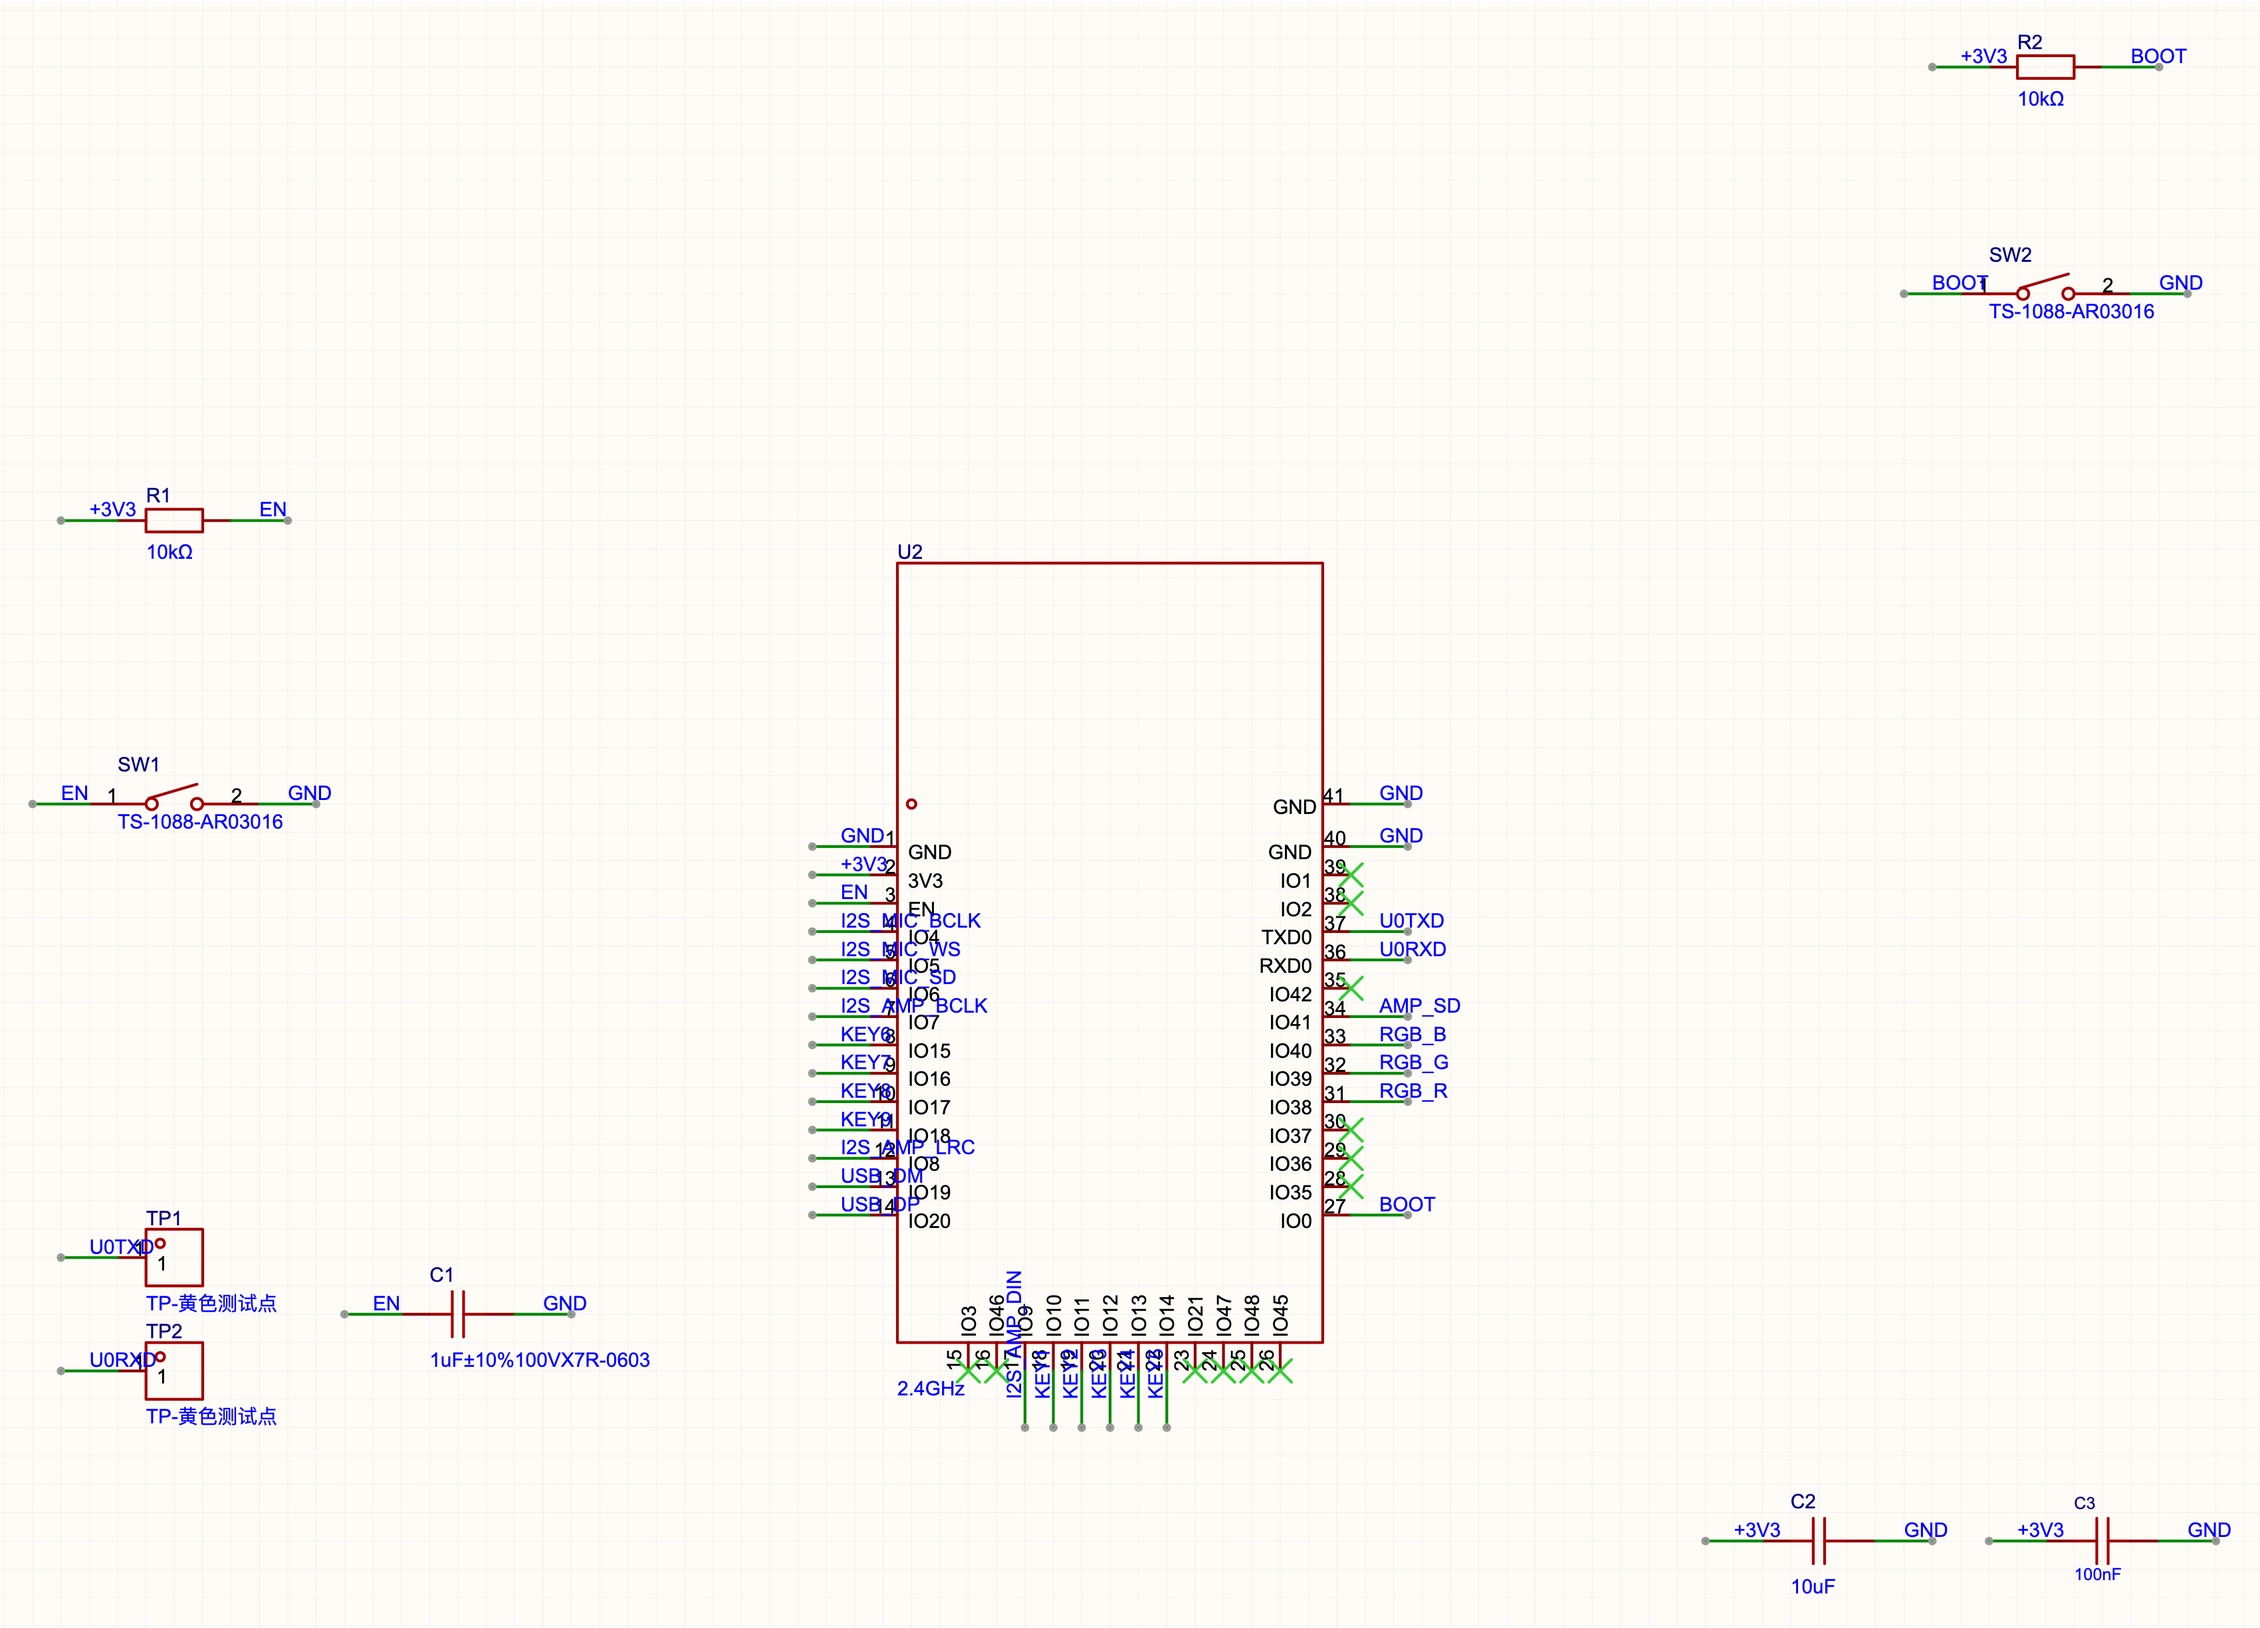
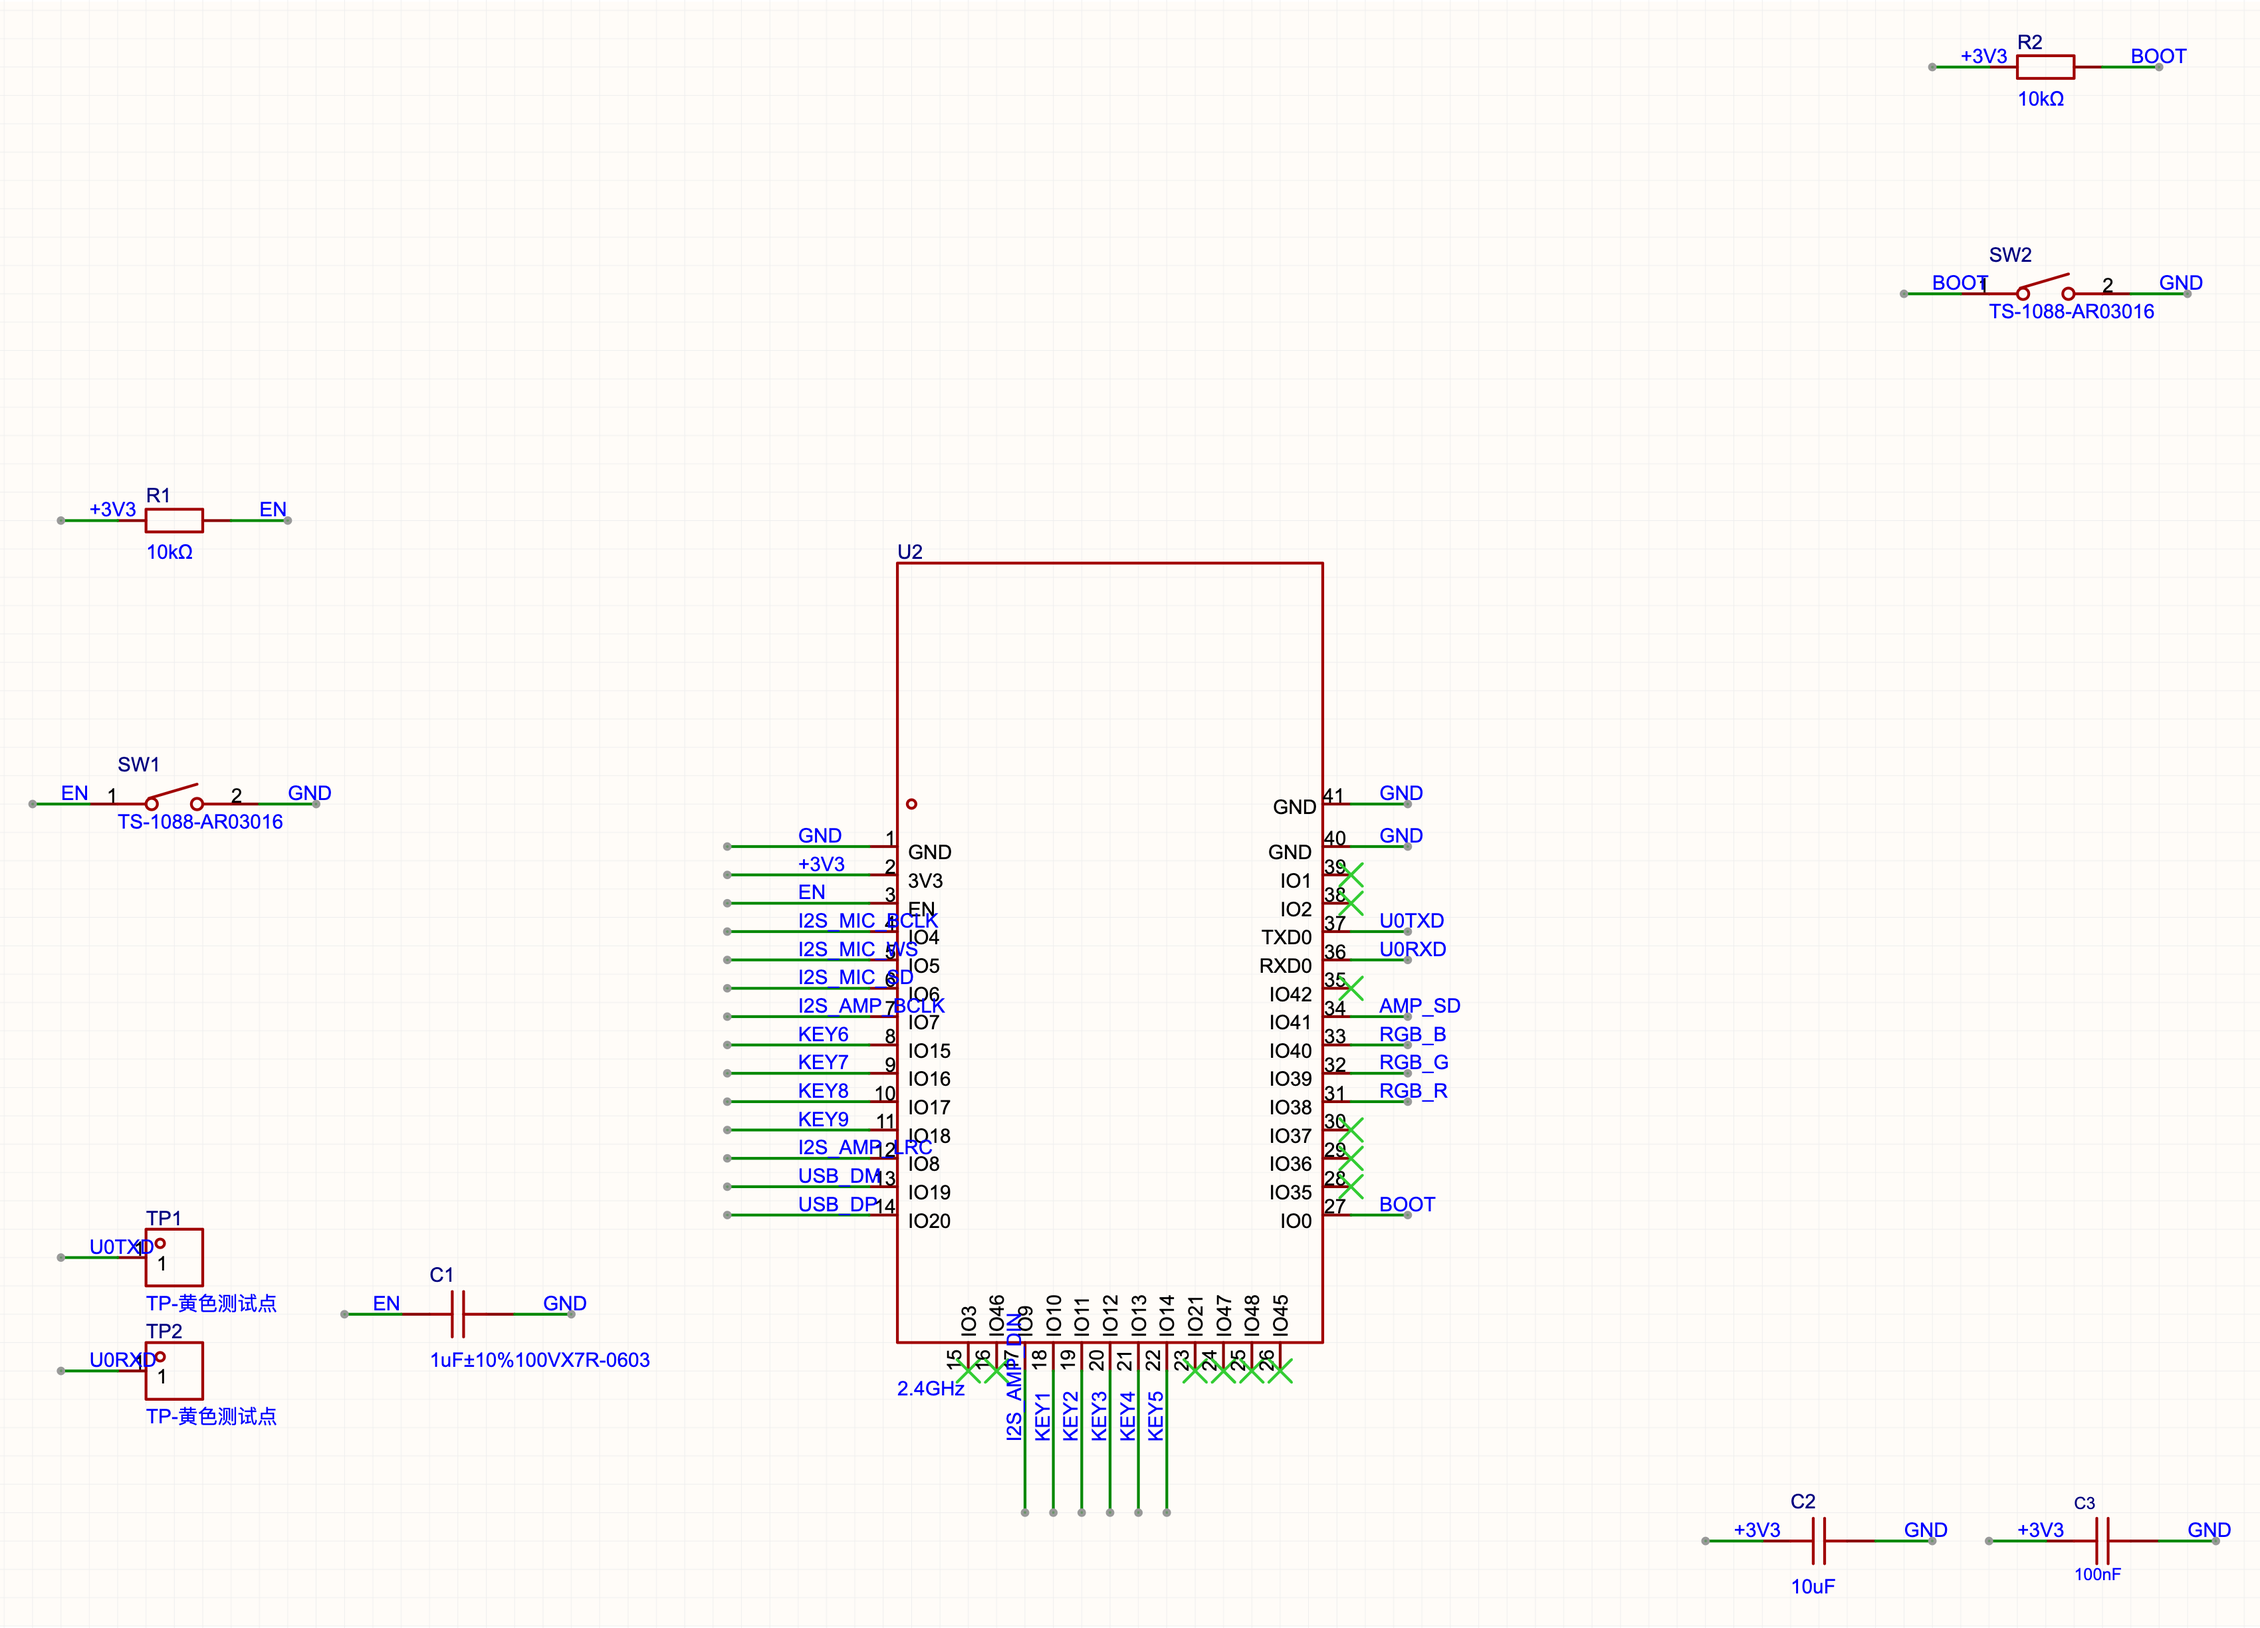
G1 stage2: 主控页左/底部引出线加长 + REVIEW_NOTES（U2 删 IO35、J1 换符号说明）

Changed region(s): [[0.3118, 0.4963, 0.4365, 0.7445], [0.4365, 0.8065, 0.53, 0.9306]]

diff --git a/hw/exports/REVIEW_NOTES.md b/hw/exports/REVIEW_NOTES.md
@@ -1,0 +1,5 @@
+# G1 评审备注（REVIEW_NOTES）
+
+## 阶段 2｜符号处理说明（供工程师评审）
+1. **U2（ESP32-S3-WROOM-1-N16R8，C2913202）符号缺陷处理**：该库符号存在引脚坐标重叠（IO35 与 IO38 同在 (85,15)，另有其它版本 IO47/IO20、IO48/IO19、IO41/IO37 重叠）。其中 **IO35 属禁止区 GPIO33–37 且本设计未使用**，因此从符号实例中**删除 IO35 引脚**以释放 IO38（RGB_R）并消除 OVERLAPPIN 报错。电气无影响（IO35 本就不连）。
+2. **J1 换符号原因**：原 `TYPE-C16PIN` 及 `TypeC-16PIN` 等库符号存在 **SBU 引脚与 GND 脚坐标重叠**缺陷，导致不连接(NC)标记与 GND 文字叠字、存在误连风险。改用引脚不重叠的 `TYPE-C-16PIN`（{{SECRET_qblwnxit}}）。SBU1/SBU2 为 USB-C 冗余脚、本设计不用，置 NC，且与 GND 脚分离（证据：power_page_J1_zoom.png）。
